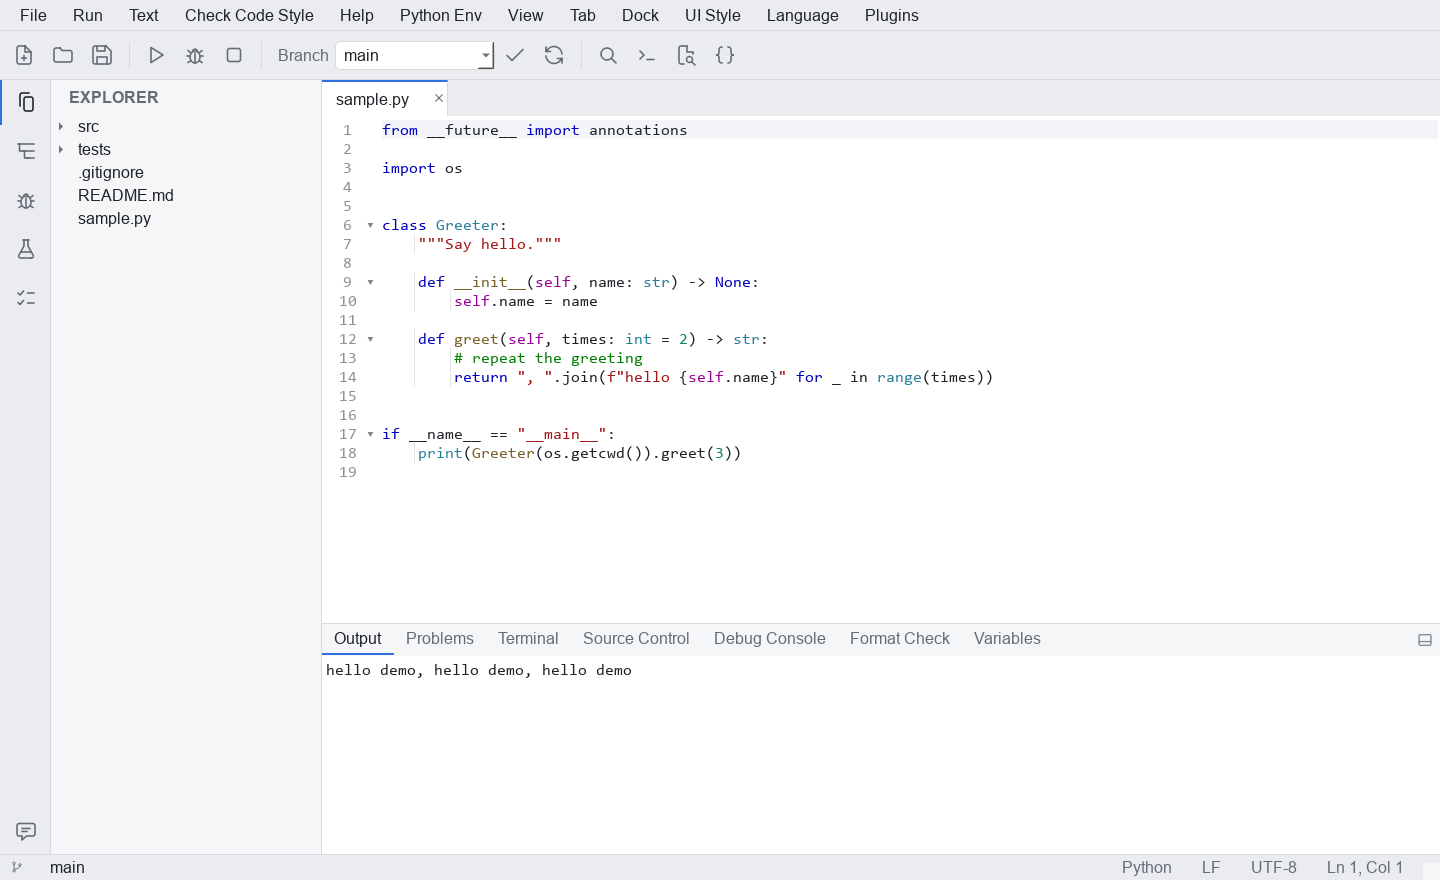
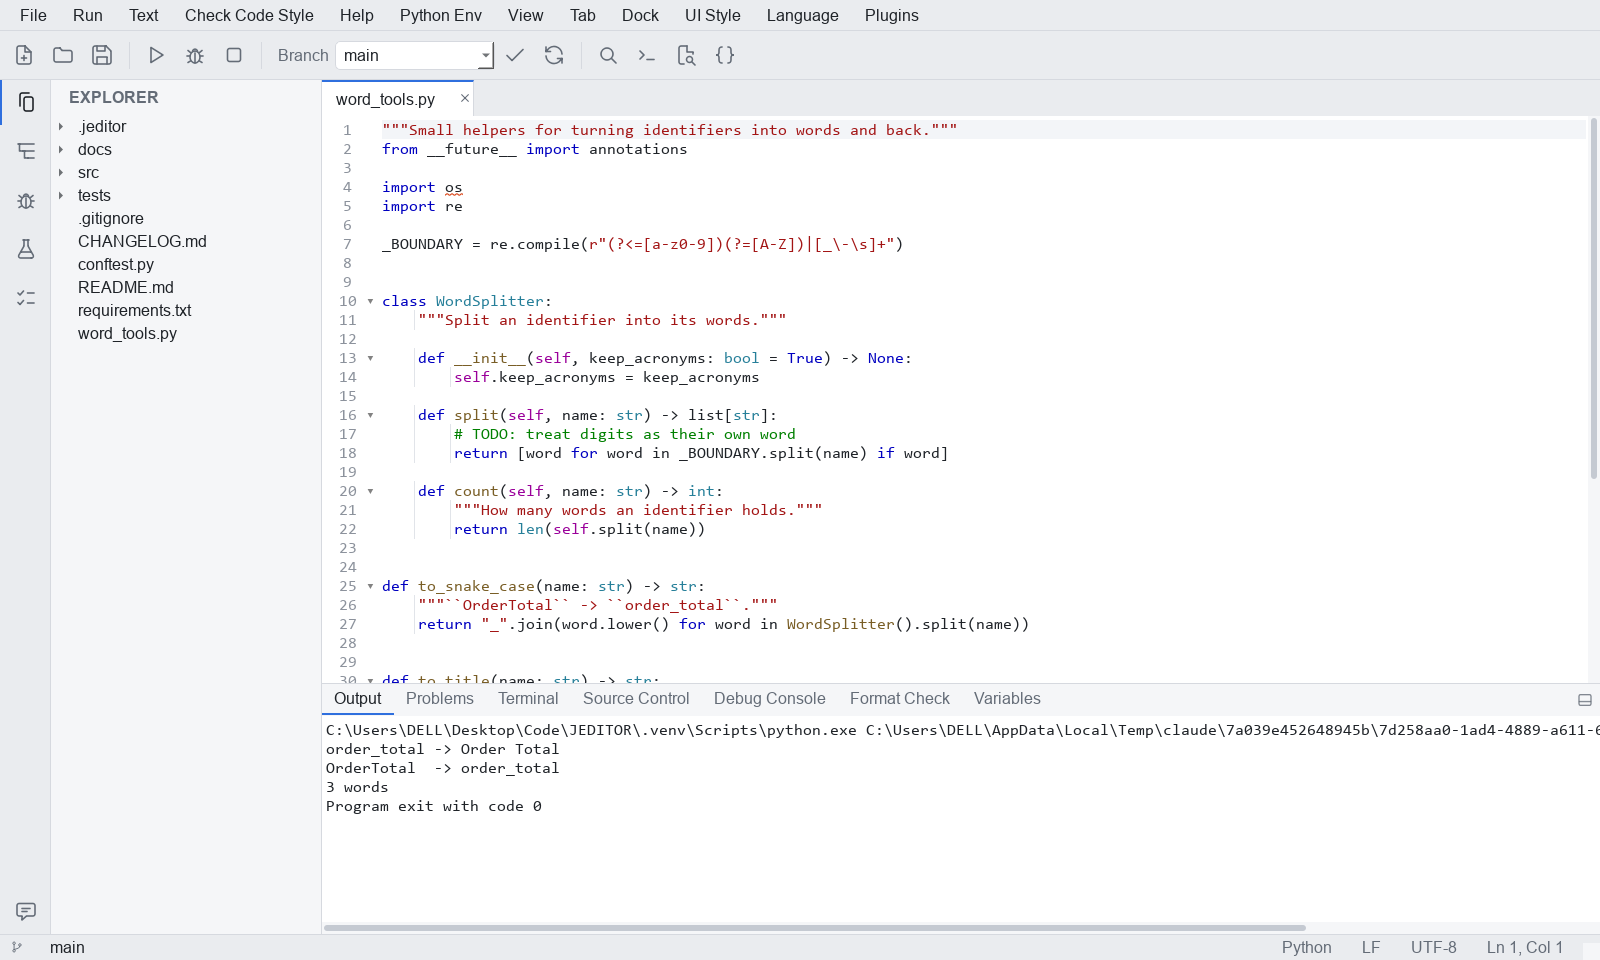
Retake the screenshots for the new window and add them to the docs
Seventeen README screenshots are retaken in the built-in theme, two new
ones show the Run and Debug view and the AI chat, and the Sphinx pages
get screenshots of their own in both languages.

diff --git a/docs/updates/2026-11.md b/docs/updates/2026-11.md
@@ -27,5 +27,20 @@ Index and query commands: [README.md](README.md). New entries go at the end.
 - **Also**: a View menu; shortcuts `toggle_side_bar` (Ctrl+Shift+B), `toggle_bottom_panel` (Ctrl+`), `toggle_secondary_side_bar` (Ctrl+Alt+I), `show_explorer` (Ctrl+Shift+E); the current branch in the status bar; running a program, the pdb console, the format check and the debug adapter each reveal their view. 18 new strings in all four dictionaries.
 - **Files**: `je_editor/pyside_ui/main_ui/shell/*`, `je_editor/utils/shell/*`, `je_editor/utils/theme/ui_*.py`, `je_editor/pyside_ui/main_ui/menu/view_menu/build_view_menu.py`, `main_editor.py`, `editor/editor_widget.py`, `toolbar/toolbar_builder.py`, `menu/style_menu/build_style_menu.py`, `start_editor.py`; READMEs, `docs/source/docs/{Eng,Zh}/{configuration,keyboard_shortcuts,getting_started}.rst`, `architecture.md`, `architecture_explore.md`; `image/screenshot-main-window.png` and `screenshot-light-theme.png` retaken.
 - **Evidence**: `test/test_workbench.py`, `test/test_shell_layout.py`, `test/test_ui_theme.py`; the two launch scripts under `test/qt_ui/unit_test/` run offscreen.
-- **Open items**: `PROGRESS.md` #9 (command IDs, data-driven locale loading, what the shell does not do yet). The other screenshots in `image/` still show the previous window.
+- **Open items**: `PROGRESS.md` #9 (command IDs, data-driven locale loading, what the shell does not do yet).
+
+## U-20261115-02 · 2026-11-15 · Crash on closing the test panel after a run; empty Diff Against HEAD tab; split view font · #bugfix #ui
+
+- **What**: three faults found while retaking the screenshots. (1) `TestPanelWidget` connected its run thread's `finished` to `deleteLater` and kept the reference, so the next `isRunning()` — closing the panel, or starting another run — reached a deleted object and took the process down with an access violation. The shell closes every view as the window closes, which turned this into a crash on exit after any test run; the thread is now released when it finishes (`_release_thread`). (2) `MultiFileDiffViewer` split a diff on `diff --git` lines only, so the editor's own diff against HEAD or the index, which has none, was dropped whole and **Tab ▸ Git ▸ Diff Against HEAD / Staged** opened an empty tab; such a diff is now one file, named from its `+++` line. (3) `SplitEditorView` took the window's interface font, and since the document is shared the main editor was redrawn in it too; it now takes the main editor's own style sheet.
+- **Files**: `je_editor/pyside_ui/main_ui/test_panel/test_panel_widget.py`, `je_editor/pyside_ui/git_ui/code_diff_compare/multi_file_diff_viewer.py`, `je_editor/pyside_ui/code/split_view/split_editor_view.py`.
+- **Evidence**: `test_pytest_panel.py::TestAFinishedRun`, `test_head_diff.py::TestTheViewerShowsAnEditorsOwnDiff`, `test_split_view.py::…::test_it_takes_the_main_editors_own_font_styling`; commits `4d12076`, `4b2a647`.
+- **Open items**: none.
+
+## U-20261115-03 · 2026-11-15 · Screenshots retaken for the new window; screenshots in the docs · #docs #ui
+
+- **What**: 17 of the 18 README screenshots were retaken from the real window in the JEditor Dark theme (and one in JEditor Light), staged on a small demo project: a run, the Problems view, the outline, the TODO and test views, the Git client, the diff against HEAD, search and replace, the minimap with a split view, the terminal, the shortcut and snippet dialogs, the command palette and quick open. Two are new — the Run and Debug view and the AI chat — with a tour section for them in all three READMEs. The Sphinx pages had no screenshot but the logo: 12 are now placed in `getting_started`, `configuration`, `editor`, `code_quality`, `code_execution`, `git_integration`, `ai_assistant`, `console` and `keyboard_shortcuts`, English and Chinese alike.
+- **How**: rendered with `QT_QPA_PLATFORM=offscreen` and `QT_QPA_FONTDIR` pointing at the system fonts, then `QWidget.grab()`.
+- **Files**: `image/screenshot-*.png`, `docs/source/docs/{Eng,Zh}/image/screenshot-*.png`, the nine pages above in both languages, `README.md`, `README/README_zh-TW.md`, `README/README_zh-CN.md`.
+- **Evidence**: `sphinx -b html docs/source` builds with every image found.
+- **Open items**: `PROGRESS.md` #26 (the browser screenshot).
 

diff --git a/README/README_zh-TW.md b/README/README_zh-TW.md
@@ -51,6 +51,7 @@
   - [跨專案搜尋與取代](#跨專案搜尋與取代)
   - [一次讀到檔案的更多內容](#一次讀到檔案的更多內容)
   - [同一視窗內的終端機與瀏覽器](#同一視窗內的終端機與瀏覽器)
+  - [在程式碼旁邊除錯與提問](#在程式碼旁邊除錯與提問)
   - [打造專屬於您的編輯器](#打造專屬於您的編輯器)
 - [主要特色](#主要特色)
 - [系統需求](#系統需求)
@@ -180,6 +181,20 @@ TODO 面板會掃描整個專案中的 `TODO`、`FIXME`、`HACK`、`XXX`、`BUG`
 
 <p align="center">
   <img src="../image/screenshot-browser.png" alt="內嵌網頁瀏覽器"/>
+</p>
+
+### 在程式碼旁邊除錯與提問
+
+**執行與除錯** 是側邊欄的一個面板：執行緒、呼叫堆疊、展開時才查詢的變數，以及在暫停的那一層求值的輸入框。它的輸出送到編輯器下方的除錯主控台。
+
+<p align="center">
+  <img src="../image/screenshot-debug-panel.png" alt="側邊欄的執行與除錯面板"/>
+</p>
+
+AI 聊天開在右邊的第二側邊欄，對話就留在它所談的檔案旁邊，上方可以選擇供應者與模型。
+
+<p align="center">
+  <img src="../image/screenshot-ai-chat.png" alt="第二側邊欄的 AI 聊天"/>
 </p>
 
 ### 打造專屬於您的編輯器

diff --git a/README/README_zh-CN.md b/README/README_zh-CN.md
@@ -51,6 +51,7 @@
   - [跨项目搜索与替换](#跨项目搜索与替换)
   - [一次读到文件的更多内容](#一次读到文件的更多内容)
   - [同一窗口内的终端与浏览器](#同一窗口内的终端与浏览器)
+  - [在代码旁边调试与提问](#在代码旁边调试与提问)
   - [打造专属于您的编辑器](#打造专属于您的编辑器)
 - [主要特性](#主要特性)
 - [系统要求](#系统要求)
@@ -180,6 +181,20 @@ TODO 面板会扫描整个项目中的 `TODO`、`FIXME`、`HACK`、`XXX`、`BUG`
 
 <p align="center">
   <img src="../image/screenshot-browser.png" alt="内嵌网页浏览器"/>
+</p>
+
+### 在代码旁边调试与提问
+
+**运行和调试** 是侧边栏的一个面板：线程、调用栈、展开时才查询的变量，以及在暂停的那一层求值的输入框。它的输出发送到编辑器下方的调试控制台。
+
+<p align="center">
+  <img src="../image/screenshot-debug-panel.png" alt="侧边栏的运行和调试面板"/>
+</p>
+
+AI 聊天打开在右边的辅助侧边栏，对话就留在它所谈的文件旁边，上方可以选择提供者与模型。
+
+<p align="center">
+  <img src="../image/screenshot-ai-chat.png" alt="辅助侧边栏的 AI 聊天"/>
 </p>
 
 ### 打造专属于您的编辑器

diff --git a/README.md b/README.md
@@ -50,6 +50,7 @@
   - [Search and replace across the project](#search-and-replace-across-the-project)
   - [Read more of the file at once](#read-more-of-the-file-at-once)
   - [A terminal and a browser in the same window](#a-terminal-and-a-browser-in-the-same-window)
+  - [Debug and ask, beside the code](#debug-and-ask-beside-the-code)
   - [Make it yours](#make-it-yours)
 - [Key Features](#key-features)
 - [System Requirements](#system-requirements)
@@ -210,6 +211,23 @@ in-page search.
 
 <p align="center">
   <img src="image/screenshot-browser.png" alt="Embedded web browser"/>
+</p>
+
+### Debug and ask, beside the code
+
+**Run and Debug** is a view of the side bar: threads, the call stack, variables that are looked up
+as they are expanded, and a box to evaluate an expression in the paused frame. Its output goes to
+the Debug Console below the editor.
+
+<p align="center">
+  <img src="image/screenshot-debug-panel.png" alt="Run and Debug view in the side bar"/>
+</p>
+
+The AI chat opens in the secondary side bar on the right, so a conversation stays next to the file
+it is about, with the provider and the model chosen above it.
+
+<p align="center">
+  <img src="image/screenshot-ai-chat.png" alt="AI chat in the secondary side bar"/>
 </p>
 
 ### Make it yours

diff --git a/docs/updates/README.md b/docs/updates/README.md
@@ -58,6 +58,8 @@ In the same commit: delete the item from `progress.md`, add a `#done` entry here
 
 | ID | Date | Title | Tags | Batch |
 |---|---|---|---|---|
+| U-20261115-03 | 2026-11-15 | Screenshots retaken for the new window; screenshots in the docs | #docs #ui | [2026-11](2026-11.md) |
+| U-20261115-02 | 2026-11-15 | Crash on closing the test panel after a run; empty Diff Against HEAD tab; split view font | #bugfix #ui | [2026-11](2026-11.md) |
 | U-20261115-01 | 2026-11-15 | Window shell and built-in themes (roadmap M1, layout part) | #done #ui #theme | [2026-11](2026-11.md) |
 | U-20261102-01 | 2026-11-02 | Require Python 3.11; stop supporting 3.10 | #migration #deps #ci | [2026-11](2026-11.md) |
 | U-20261101-01 | 2026-11-01 | Patch setuptools and certifi in the publish lock | #bugfix #deps #security #ci | [2026-11](2026-11.md) |
@@ -111,6 +113,6 @@ In the same commit: delete the item from `progress.md`, add a `#done` entry here
 
 | File | Period | Entries |
 |---|---|---:|
-| [2026-11.md](2026-11.md) | 2026-11 | 3 |
+| [2026-11.md](2026-11.md) | 2026-11 | 5 |
 | [2026-10.md](2026-10.md) | 2026-10 | 20 |
 | [2026-09.md](2026-09.md) | 2026-09 | 20 |

diff --git a/PROGRESS.md b/PROGRESS.md
@@ -11,6 +11,10 @@
   `# 初始化並記錄日誌` 被當成「註解掉的程式碼」。這是本專案雙語註解的正常寫法，不該刪。
   要清掉這一項得在 SonarCloud 把 issue 轉成 False Positive（用 API 改狀態需要 Administer
   Issues 權限）。
+- **#26** `image/screenshot-browser.png` 還是舊視窗的樣子。其他截圖是以 offscreen 重拍的（U-20261115-03），但
+  QtWebEngine 在 offscreen 下畫不出網頁內容（分頁標題有載入，畫面是空白），這一張要在真正的螢幕上開視窗才拍得到。
+  另外並排差異檢視器的行號區底色是寫死的淺灰（`line_number_code_viewer.py`），在內建深色主題下很突兀，
+  應該改用 `actually_color_dict` 的行號顏色。
 - **#21** 〔未確認〕整套測試在機器忙碌時偶爾被 Qt 中止（`Fatal Python error: Aborted`，結束代碼 3）。
   2026-10-08 看到兩次，都是主工作樹裡同時還有別的 pytest 行程在跑的時候；其中一次留有紀錄，停在
   `test_toolbar_actions.py::TestTheBranchScan::test_a_subdirectory_still_finds_the_repository` 的 setup，

diff --git a/docs/source/docs/Eng/configuration.rst b/docs/source/docs/Eng/configuration.rst
@@ -146,6 +146,10 @@ The **View** menu toggles each area and lists every view. Which areas are open, 
 each shows and their sizes are stored as ``shell_layout`` and restored on the next start.
 Any panel can still be opened as a floating dock from the **Dock** menu.
 
+.. image:: image/screenshot-outline-panel.png
+   :alt: The side bar showing the Outline view
+   :align: center
+
 Theming
 --------
 
@@ -160,6 +164,10 @@ part of the window. The dark and light styles of
 - The editor's own colors follow the window style: switching to a light theme moves the
   gutter, current-line and syntax colors to a light set. A color you picked yourself is
   left alone — only those still at a default follow the theme
+
+.. image:: image/screenshot-light-theme.png
+   :alt: The JEditor Light theme
+   :align: center
 
 Font Customization
 -------------------

diff --git a/docs/source/docs/Eng/code_execution.rst b/docs/source/docs/Eng/code_execution.rst
@@ -4,6 +4,10 @@ Code Execution & Debugging
 JEditor includes a built-in code execution engine that supports running Python scripts,
 compiled languages, and arbitrary shell commands — all without leaving the editor.
 
+.. image:: image/screenshot-run-output.png
+   :alt: A Python file and the output of running it
+   :align: center
+
 Running Python Scripts
 -----------------------
 
@@ -23,6 +27,10 @@ You can also manually select a Python interpreter from the **Python Env** menu.
 
 Debugging
 ----------
+
+.. image:: image/screenshot-debug-panel.png
+   :alt: The Run and Debug view in the side bar
+   :align: center
 
 Press **F9** to debug the current Python file. The program runs under ``debugpy`` through the
 Debug Adapter Protocol, and the **Debug Panel** opens beside the editor. The program may use

diff --git a/docs/source/docs/Eng/git_integration.rst b/docs/source/docs/Eng/git_integration.rst
@@ -5,6 +5,14 @@ JEditor includes a full-featured Git client with a graphical interface, powered 
 `GitPython <https://gitpython.readthedocs.io/>`_. All Git operations are performed
 directly within the editor — no external tools required.
 
+.. image:: image/screenshot-git-panel.png
+   :alt: The Git client in the Source Control view
+   :align: center
+
+.. image:: image/screenshot-diff-side-by-side.png
+   :alt: The side-by-side diff against HEAD
+   :align: center
+
 Opening a Repository
 ---------------------
 

diff --git a/docs/source/docs/Zh/git_integration.rst b/docs/source/docs/Zh/git_integration.rst
@@ -5,6 +5,14 @@ JEditor 內建完整功能的 Git 客戶端與圖形介面，由
 `GitPython <https://gitpython.readthedocs.io/>`_ 驅動。所有 Git 操作都可直接在
 編輯器內完成，無需外部工具。
 
+.. image:: image/screenshot-git-panel.png
+   :alt: 原始檔控制面板裡的 Git 用戶端
+   :align: center
+
+.. image:: image/screenshot-diff-side-by-side.png
+   :alt: 與 HEAD 的並排差異
+   :align: center
+
 開啟儲存庫
 -----------
 
